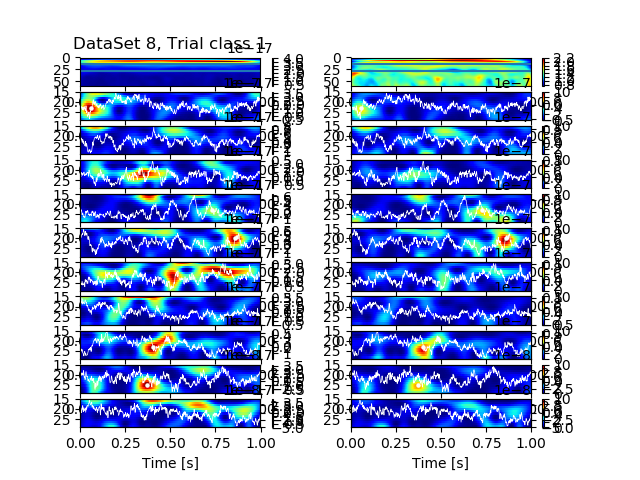
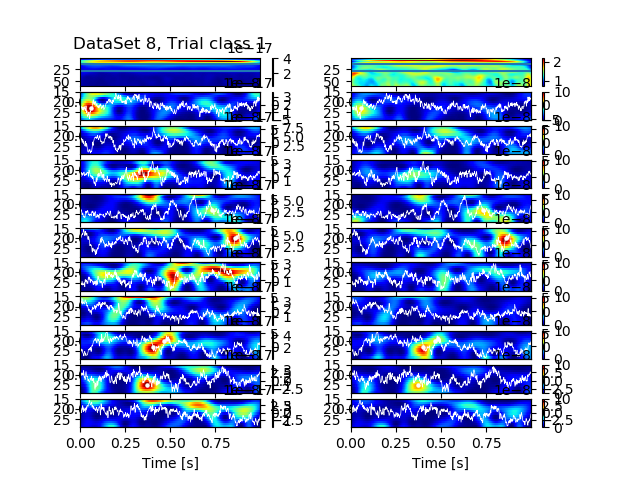
reduce maximum_filter footprint size

diff --git a/spectralevents_functions.py b/spectralevents_functions.py
@@ -149,9 +149,9 @@ def spectralevents_find (findMethod, thrFOM, tVec, fVec, TFR, classLabels, neigh
     # Validate consistency of parameter dimensions
     if flength != len(fVec):
         sys.exit('Mismatch in frequency dimensions!')
-    if tlength != len(tVec): 
+    if tlength != len(tVec):
         sys.exit('Mismatch in time dimensions!')
-    if numTrials != len(classLabels): 
+    if numTrials != len(classLabels):
         sys.exit('Mismatch in number of trials!')
 
     # Find spectral events using appropriate method
@@ -300,11 +300,11 @@ def find_localmax_method_1(TFR, fVec, tVec, eventThresholdByFrequency, classLabe
 
         # Find local maxima in the TFR data
         data = thisTFR
-        data_max = filters.maximum_filter(data, neighbourhood_size)
+        # Check 3x3 footprint centered at each pixel of the spectrogram
+        data_max = filters.maximum_filter(data, size=(3, 3))
         maxima = (data == data_max)
-        data_min = filters.minimum_filter(data, neighbourhood_size)
-        diff = ((data_max - data_min) > threshold)
-        maxima[diff == 0] = 0
+        # Rule out subthreshold pixels
+        maxima[data_max < threshold] = 0
         labeled, num_objects = ndimage.label(maxima)
         xy = np.array(ndimage.center_of_mass(data, labeled, range(1, num_objects + 1)))
 
@@ -395,7 +395,7 @@ def spectralevents_vis ( specEv, timeseries, TFR, TFR_norm, tVec, fVec, eventBan
     c = a*b
     eventBand_inds = np.where( c )
 
-    # Inter-trial average 
+    # Inter-trial average
     avgTFR = np.squeeze(np.mean(TFR,axis=0))
     avgTFR_norm = np.squeeze(np.mean(TFR_norm,axis=0))
 
@@ -417,9 +417,9 @@ def spectralevents_vis ( specEv, timeseries, TFR, TFR_norm, tVec, fVec, eventBan
     axs[0,1].axhline(y=eventBand[0])
     axs[0,1].axhline(y=eventBand[1])
 
-    # Trial Loop 
+    # Trial Loop
     for t in np.arange(numSampTrials):
-        
+
         # Get spectral events for this trial and band of interest only
         df = specEv.copy()
         df2 = df[df['Trial']==t]
@@ -429,7 +429,7 @@ def spectralevents_vis ( specEv, timeseries, TFR, TFR_norm, tVec, fVec, eventBan
         times = df4['Peak Time'].tolist()
 
         # Plot trial TFR with time course overlaid
-        im = axs[t+1,0].pcolor(tVec, fVec[eventBand_inds], np.squeeze(TFR[t,eventBand_inds,:]), 
+        im = axs[t+1,0].pcolor(tVec, fVec[eventBand_inds], np.squeeze(TFR[t,eventBand_inds,:]),
             cmap='jet')
         fig.colorbar(im, ax=axs[t+1,0])
         axs[t+1,0].invert_yaxis()
@@ -437,17 +437,17 @@ def spectralevents_vis ( specEv, timeseries, TFR, TFR_norm, tVec, fVec, eventBan
         ax2 = axs[t+1,0].twinx()
         ax2.plot(tVec, timeseries[t,:], 'w', linewidth=0.5)
         axs[t+1,0].set_xlim(tVec[0],tVec[-1])
-        
+
         # Plot trial normalized TFR with time course overlaid
-        im = axs[t+1,1].pcolor(tVec, fVec[eventBand_inds], np.squeeze(TFR_norm[t,eventBand_inds,:]), 
+        im = axs[t+1,1].pcolor(tVec, fVec[eventBand_inds], np.squeeze(TFR_norm[t,eventBand_inds,:]),
             cmap='jet', vmin=0, vmax=10)
         fig.colorbar(im, ax=axs[t+1,1])
         axs[t+1,1].invert_yaxis()
         axs[t+1,1].scatter(times, freqs, c='w', s=5)
         ax2 = axs[t+1,1].twinx()
-        ax2.plot(tVec, timeseries[t,:], 'w', linewidth=0.5)            
+        ax2.plot(tVec, timeseries[t,:], 'w', linewidth=0.5)
         axs[t+1,1].set_xlim(tVec[0],tVec[-1])
-        
+
     axs[t+1,0].set_xlabel('Time [s]')
     axs[t+1,1].set_xlabel('Time [s]')
 
